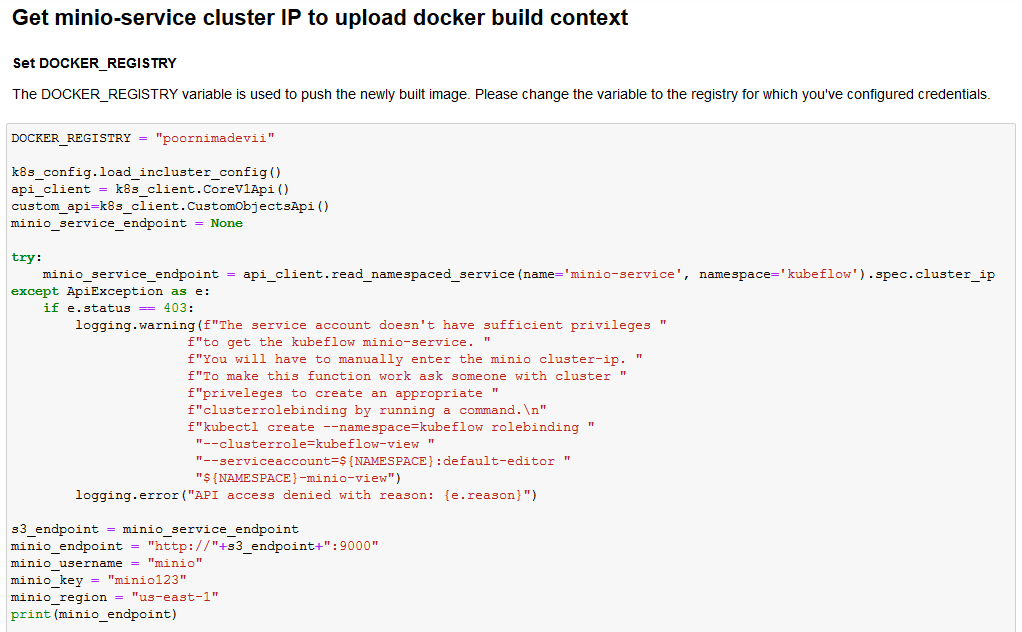
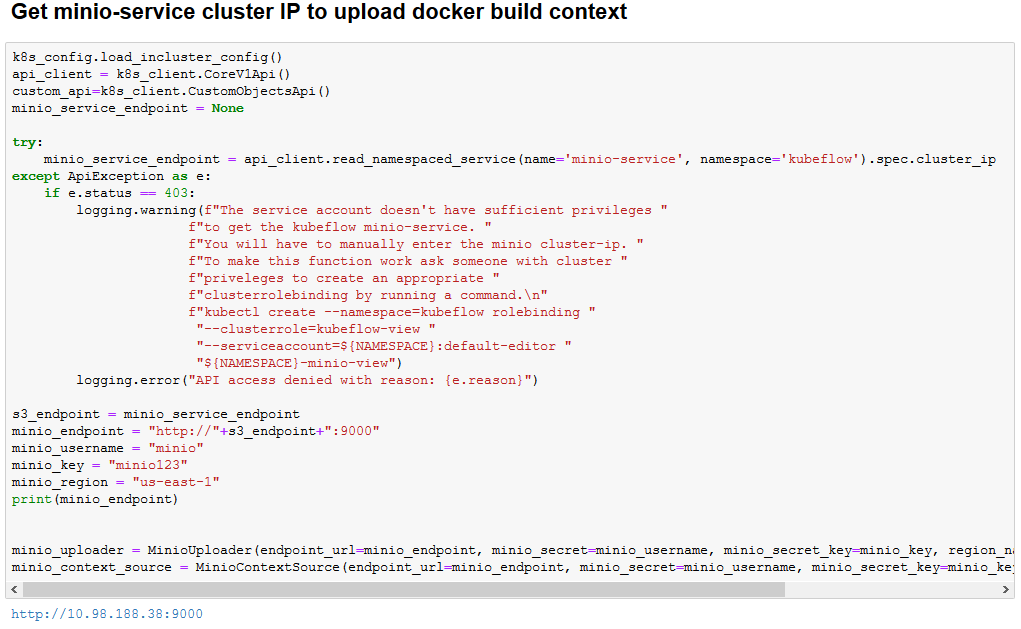
Minor COVID changes

Changed region(s): [[0.0, 0.2114, 1.0, 0.9968], [0.0, 0.0, 0.9716, 0.1812], [0.0, 0.3927, 0.0304, 0.4229]]

diff --git a/apps/healthcare/covid-forecasting/onprem/fairing/README.md b/apps/healthcare/covid-forecasting/onprem/fairing/README.md
@@ -50,7 +50,6 @@ Open & run the uploaded COVID-Forecast-fairing.ipynb file.
 
 ### Get minio-service cluster IP to upload Docker build context
 
-Note: Please change DOCKER_REGISTRY to the registry for which you've configured credentials. Minio is used as the build context source here.
 
 ![COVID Minio Service](pictures/6_minio_service_ip.png)
 

diff --git a/apps/healthcare/covid-forecasting/onprem/README.md b/apps/healthcare/covid-forecasting/onprem/README.md
@@ -24,3 +24,4 @@ to make predictions.
 There are multiple ways of training & deploying the model in Kubeflow for this application:
   - [Using Kubeflow Pipelines](./pipelines)
   - [Using Jupyter notebook server from Kubeflow](./notebook)
+  - [Using Kubeflow Fairing](./fairing)
